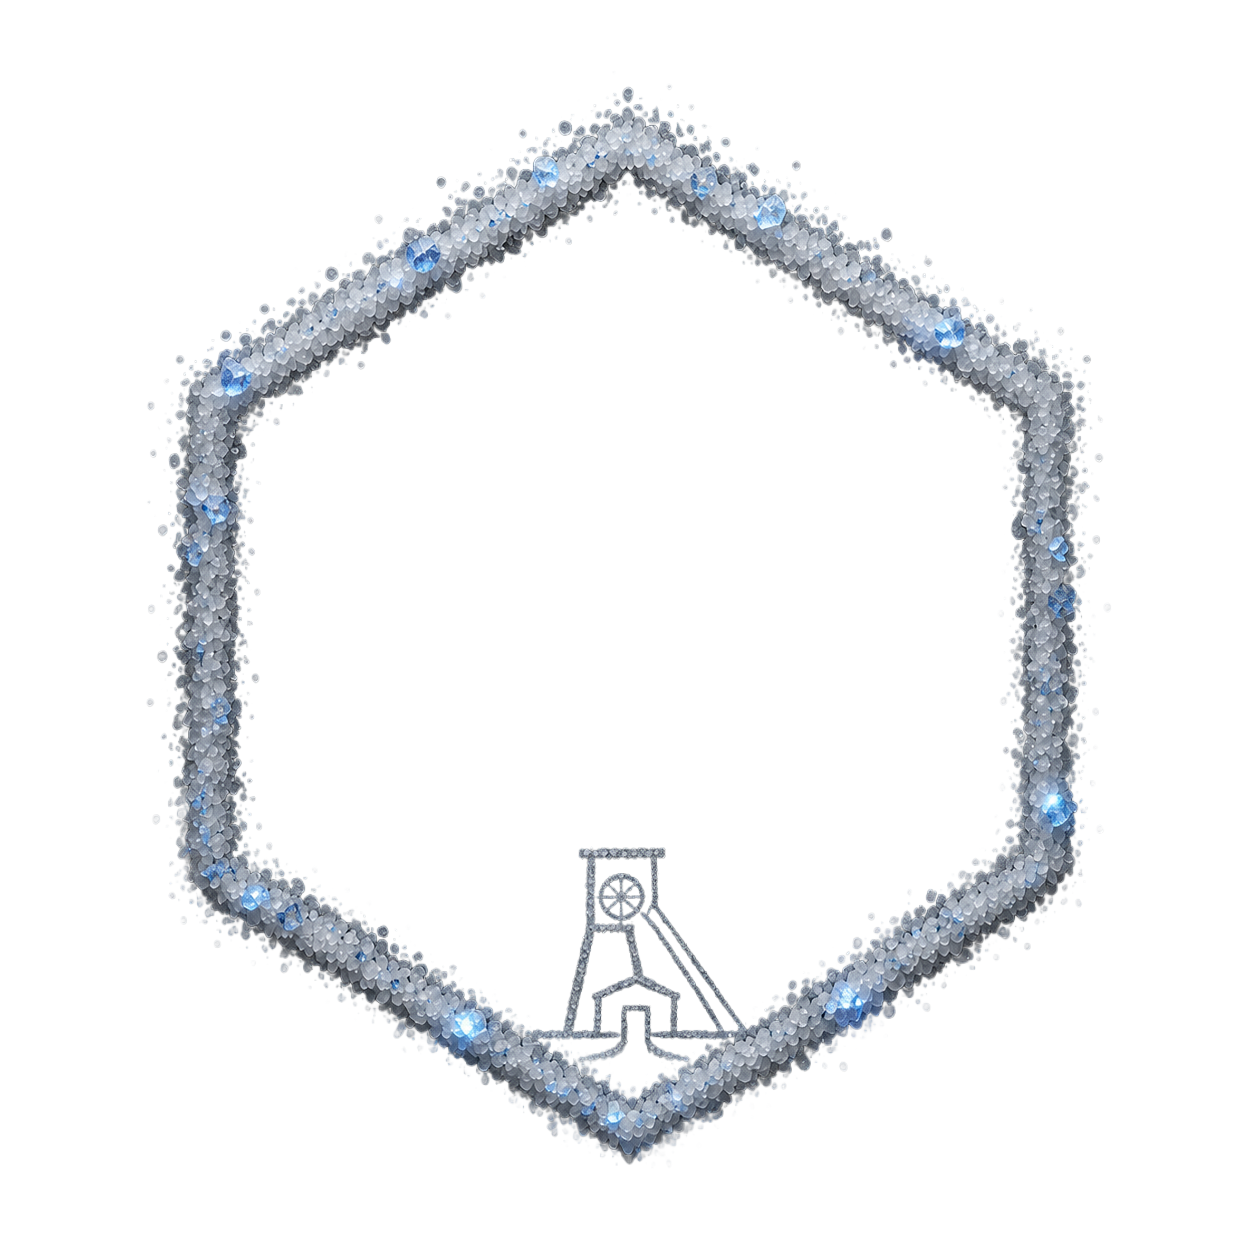
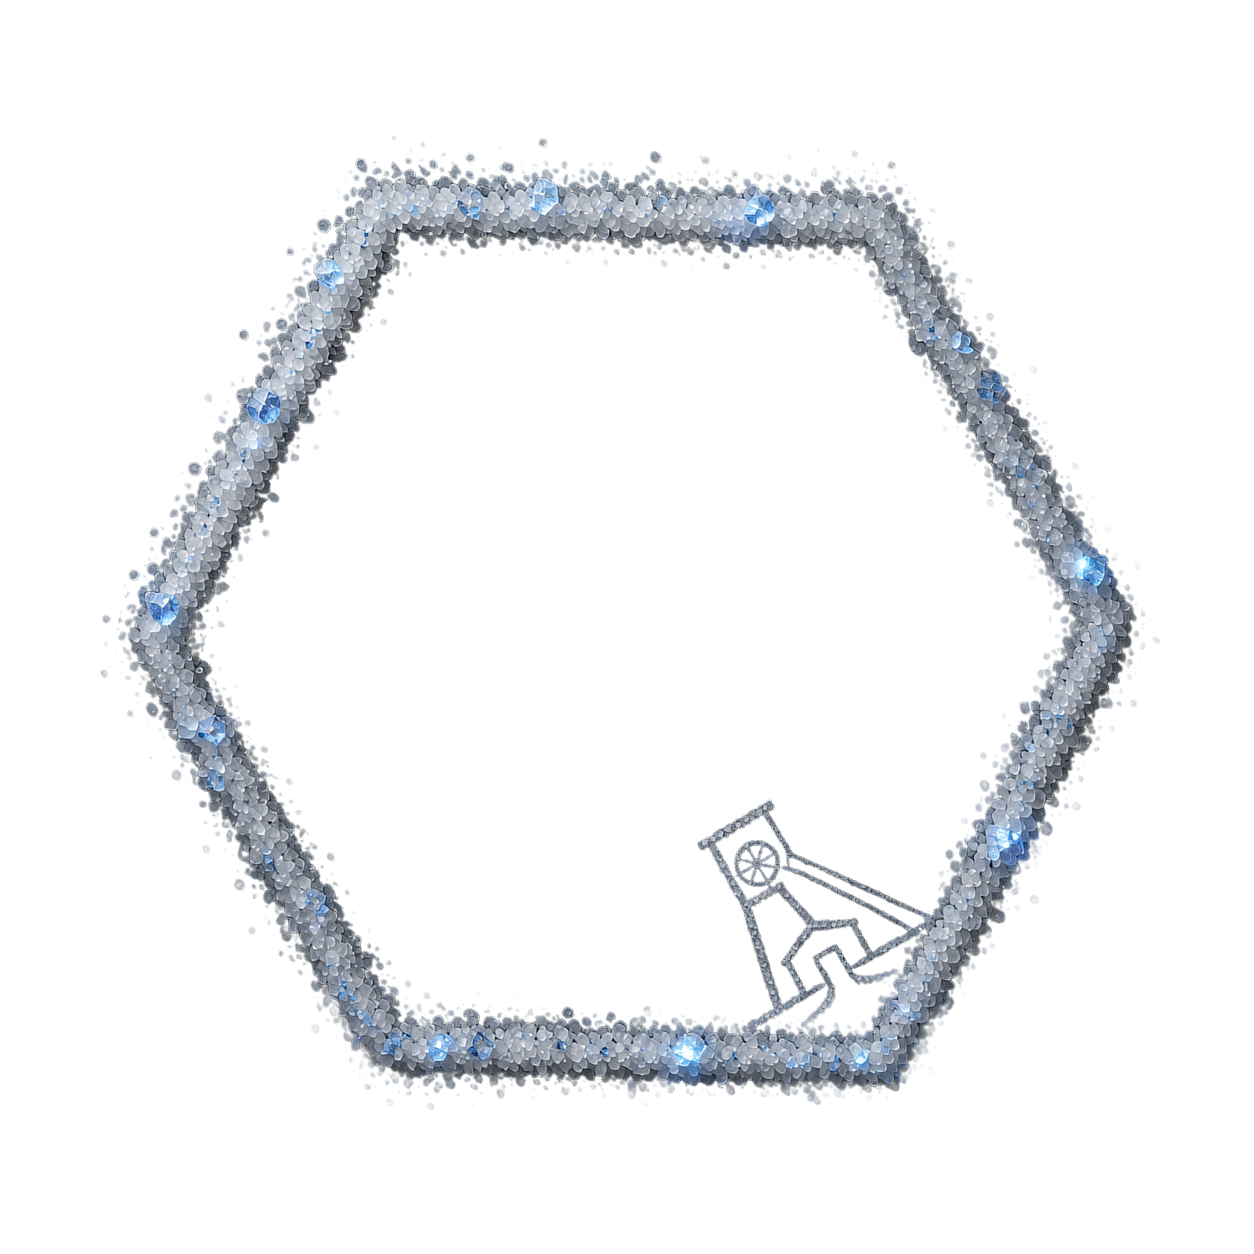
Fix saltearth frame alignment: pre-rotate PNG instead of SVG transform
The flat-top saltearth.png was causing visual artifacts when rotated via
SVG transform (the square PNG corners showed as extra sparkles around the
hex). Instead, physically rotate the PNG -30° CCW with PIL so it natively
matches the pointy-top hex orientation used throughout the app. Remove the
FRAME_ROTATIONS SVG transform — no longer needed.

Changed region(s): [[0.0933, 0.0622, 0.9019, 0.933]]

diff --git a/src/components/ui/HexAvatar.jsx b/src/components/ui/HexAvatar.jsx
@@ -39,11 +39,9 @@ const FRAME_PATHS = {
   saltearth:    '/saltearth.png',
 }
 
-// Ramki zaprojektowane w orientacji "flat-top" (płaska góra/dół) wymagają
-// obrotu o -30°, żeby dopasować się do hexów "pointy-top" (wierzchołki góra/dół)
-// używanych w całej aplikacji. Środek obrotu: (45,45) w przestrzeni SVG.
+// Ramki które wymagają obrotu SVG (gdy PNG nie jest w orientacji pointy-top).
+// saltearth.png jest już obrócony fizycznie (PIL -30° CCW) — nie potrzebuje rotacji SVG.
 const FRAME_ROTATIONS = {
-  saltearth: 30,
 }
 
 // ── Shared frame SVG ─────────────────────────────────────────────────────────
